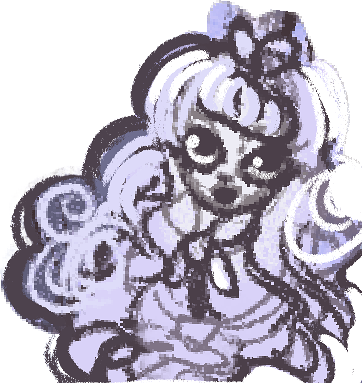
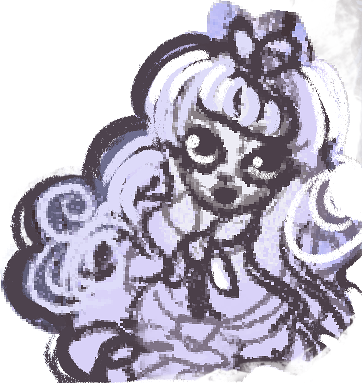
added inventory system

diff --git a/index.html b/index.html
@@ -9,6 +9,7 @@
 	<script type="text/javascript" src="vendor/phaser.min.js"></script>
 	<script type="text/javascript" src="data/parameters.js"></script>
 	<script type="text/javascript" src="src/objects.js"></script>
+	<script type="text/javascript" src="src/inventory.js"></script>
 </head>
 <body>
 	<div id="ld38"></div>
@@ -30,48 +31,47 @@
 	
 	function create() {
 		game.stage.backgroundColor = GAME_BACKGROUND_COLOR;
+		splashScreen = game.add.image(0, 0, 'pagebg');
+		launchText = game.add.text(345, 450, 'click to start', { font: '14pt Lucida Sans', fill: TEXT_COLOR });
+		splashScreen.inputEnabled = true;
+		splashScreen.events.onInputDown.add(launch, this);
+	}
+		
+	function launch() {
+		splashScreen.destroy();
+		launchText.destroy();
 		bg = game.add.image(0, 0, 'bg');
-		
+		//items are displayed
 		//itemProperties(); todo
-		
 		teacupSprite = game.add.sprite(teacup.itemPosX, teacup.itemPosY, teacup.itemSprite);
 		teapotSprite = game.add.sprite(teapot.itemPosX, teapot.itemPosY, teapot.itemSprite);
-		teapotSprite.inputEnabled = true;
-		teacupSprite.inputEnabled = true;
-		
-		//itemActions(); todo
-	
-		teapotSprite.events.onInputOver.add(displaySpeech0, this);
-		teapotSprite.events.onInputOut.add(hideSpeech, this);
-		teapotSprite.events.onInputDown.add(objectMenu0, this);
-		
-		teacupSprite.events.onInputOver.add(displaySpeech1, this);
-		teacupSprite.events.onInputOut.add(hideSpeech, this);
-		teacupSprite.events.onInputDown.add(objectMenu1, this);
+		//items are made interactive
+		itemInventory0(); 
+		itemInventory1(); 
 	}
 	
-	// todo link speech value to items id
-	function displaySpeech0() {
+	// todo link speech value to items id instead of copypasting the code like a noob
+	function displaySpeech0() { //displays item description on hover
 		currentSpeech ++;
-		characterSpeech = game.add.text(185, 540, '', { fill: TEXT_COLOR });
+		characterSpeech = game.add.text(197, 555, '', { font: '12pt Lucida Sans', fill: TEXT_COLOR });
 		characterSpeech.text = "This is a teapot.";
 		displayDoll1();
 	}
 	function displaySpeech1() {
 		currentSpeech ++;
-		characterSpeech = game.add.text(185, 540, '', { fill: TEXT_COLOR });
+		characterSpeech = game.add.text(197, 555, '', { font: '12pt Lucida Sans',  fill: TEXT_COLOR });
 		characterSpeech.text = "Nope. This is a teacup.";
 		displayDoll1();
 	}
 	
-	function hideSpeech() {
+	function hideSpeech() { //hides item description when hovering stops
         characterSpeech.destroy();
 		hideDoll1();
 		currentSpeech = 0;
 	}
 	
-	function objectMenu0() {
-		teapotSprite.input.enableDrag();
+	function objectMenu0() { //interactions on click
+		teapotSprite.input.enableDrag(); 
 		teapotSprite.events.onDragStart.add(UItakeDisplay0, this);
 		teapotSprite.events.onDragStop.add(UItakeHide0, this);
 	}
@@ -81,19 +81,25 @@
 		teacupSprite.events.onDragStop.add(UItakeHide1, this);
 	}
 	
-	function UItakeDisplay0() {
-		hideSpeech();
-		objectPosX = teapotSprite.x; 
-		objectPosY = teapotSprite.y; 
-		UItake = game.add.sprite(320,500,'UItake');
+	function UItakeDisplay0() { 
+		hideSpeech(); //hides item description while dragging item
+		objectPosX = teapotSprite.x; //saves original item's horizontal position
+		objectPosY = teapotSprite.y; //saves original item's vertical position
+		UItake = game.add.text(325, 547, 'drag here to take', { font: '12pt Lucida Sans', fill: TEXT_COLOR });
 	}
 	function UItakeHide0() {
 		UItake.destroy();
+		//if dragging stops on the UI bar, item is put in the inventory
 		if (teapotSprite.y > 480){
-			teapotSprite.scale.setTo(0.7, 0.7);
+			teapotSprite.scale.setTo(0.8, 0.8);
+			teapotSprite.x = 40;
+			teapotSprite.y = 90;
+			teapot.itemStored = true;
+			itemInventory0(); //special item-in-inventory actions
 		}
+		//if dragging stops elsewhere, item returns to its original position
 		else {
-			teapotSprite.x = objectPosX;
+			teapotSprite.x = objectPosX; 
 			teapotSprite.y = objectPosY;
 		}
 	}
@@ -101,12 +107,16 @@
 		hideSpeech();
 		objectPosX = teacupSprite.x; 
 		objectPosY = teacupSprite.y; 
-		UItake = game.add.sprite(320,500,'UItake');
+		UItake = game.add.text(325, 547, 'drag here to take', { font: '12pt Lucida Sans', fill: TEXT_COLOR });
 	}
 	function UItakeHide1() {
 		UItake.destroy();
 		if (teacupSprite.y > 480){
 			teacupSprite.scale.setTo(0.7, 0.7);
+			teacupSprite.x = 50;
+			teacupSprite.y = 50;
+			teacup.itemStored = true;
+			itemInventory1();
 		}
 		else {
 			teacupSprite.x = objectPosX;

diff --git a/src/objects.js b/src/objects.js
@@ -8,31 +8,33 @@ function Speech(sid, sname, ssprite1, ssprite2) {
 //characters list
 doll1 = new Speech(0, 'Doll', 'character1'); 
 
-function displayDoll1() { //display character, speech bubble & character's name
+function displayDoll1() { //displays character, speech bubble & character's name
 	doll1SpeechChara = game.add.sprite(450, 220, doll1.speechSprite1)
-	doll1SpeechName = game.add.text(185, 470, doll1.speechName);
+	doll1SpeechName = game.add.text(190, 527, doll1.speechName + ':', { font: 'bold 16pt Lucida Sans', fill: TEXT_COLOR });
 }
 
-function hideDoll1() { //hide character, speech bubble & character's name
+function hideDoll1() { //hides character, speech bubble & character's name
 	doll1SpeechChara.destroy();
 	doll1SpeechName.destroy();
 }
 
 // ITEM LIST
-function Item(iname, isprite, x, y) {
+function Item(iname, isprite, x, y, istored) {
 	this.itemName = iname;
 	this.itemSprite = isprite;
 	this.itemPosX = x;
 	this.itemPosY = y;
+	this.itemStored = istored;
 }
 
-teapot = new Item('Teapot', 'item2', 230, 240);
-teacup = new Item('Teacup', 'item1', 465, 270);
+teapot = new Item('Teapot', 'item2', 230, 240, false);
+teacup = new Item('Teacup', 'item1', 465, 270, false);
 
 var ITEMS = [];
 	ITEMS.push(teapot);
 	ITEMS.push(teacup);
 
+// NOT WORKING YET
 //function itemProperties(){
 	//for (ITEMS){
 	//	this.itemSprite.inputEnabled = true;

diff --git a/src/inventory.js b/src/inventory.js
@@ -1,0 +1,27 @@
+function itemInventory0(){
+	if (teapot.itemStored == false){	
+		teapotSprite.inputEnabled = true;
+		
+		//itemActions(); todo
+		teapotSprite.events.onInputOver.add(displaySpeech0, this); //displays item description on hover
+		teapotSprite.events.onInputOut.add(hideSpeech, this); //hides item description when hovering stops
+		teapotSprite.events.onInputDown.add(objectMenu0, this); //interactions on click
+	}
+	else{
+		teapotSprite.inputEnabled = false;
+	}
+}
+
+function itemInventory1(){	
+	if (teacup.itemStored == false){
+		teacupSprite.inputEnabled = true;
+		
+		//itemActions(); todo
+		teacupSprite.events.onInputOver.add(displaySpeech1, this);
+		teacupSprite.events.onInputOut.add(hideSpeech, this);
+		teacupSprite.events.onInputDown.add(objectMenu1, this);
+	}
+	else {
+		teacupSprite.inputEnabled = false;
+	}
+}

diff --git a/data/parameters.js b/data/parameters.js
@@ -7,10 +7,8 @@ const TEXT_COLOR = "#000"
 // Assets
 const ASSETS = [
   {"name":"bg", "src":"assets/ld38_bg_001.png", "type":"image"},
+  {"name":"pagebg", "src":"assets/ld38_pagebg_001.png", "type":"image"},
   {"name":"item1", "src":"assets/ld38_object_001.png", "type":"image"},
   {"name":"item2", "src":"assets/ld38_object_002.png", "type":"image"},
-  {"name":"UItake", "src":"assets/ld38_UI_001.png", "type":"image"},
-  {"name":"UIleave", "src":"assets/ld38_UI_002.png", "type":"image"},
-  {"name":"bubble", "src":"assets/ld38_bubble_001.png", "type":"image"},
   {"name":"character1", "src":"assets/ld38_character_001.png", "type":"image"}
 ];
